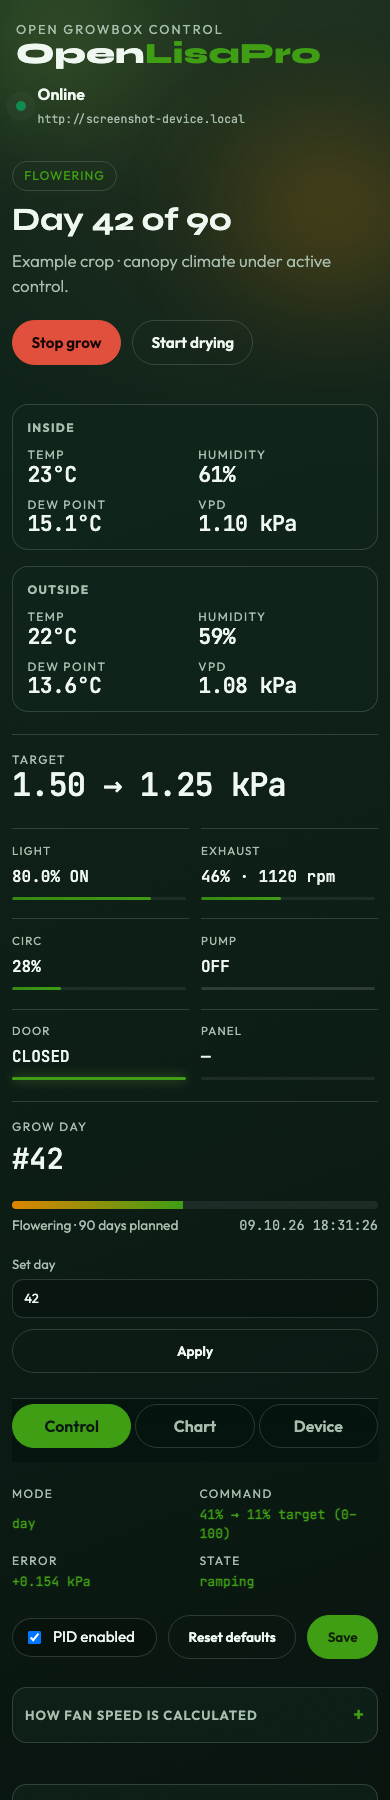
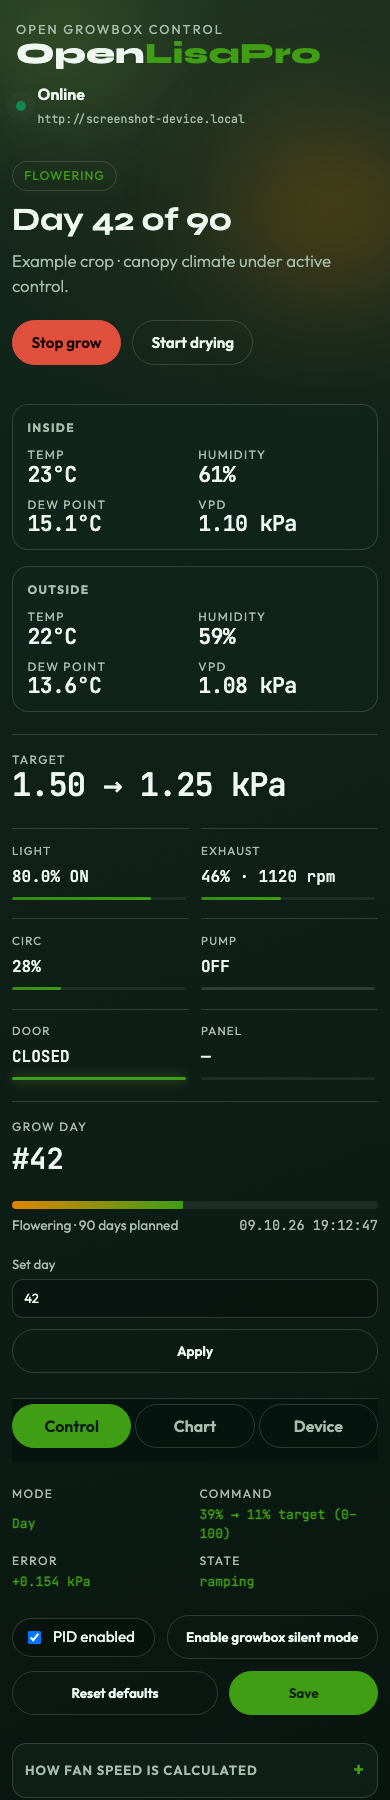
Refresh dashboard screenshots

Changed region(s): [[0.0308, 0.8711, 0.9846, 1.0], [0.9538, 0.9956, 0.9846, 1.0], [0.9231, 0.6533, 0.9538, 0.6844]]

diff --git a/README.md b/README.md
@@ -17,7 +17,7 @@ The UI can be viewed on desktop or mobile. The PID loop can write fan settings t
 
 ## Screenshots
 
-These screenshots use mock device data and show the dashboard at desktop and mobile widths. The example has a requested VPD target of 1.50 kPa; outside dew point limits the ventilation-achievable target to 1.25 kPa, so the fan command ramps down instead of chasing an unreachable target. The mock server does not connect to a growbox.
+These screenshots use mock device data and show the dashboard at desktop and mobile widths, including stage-specific Day silent/Night silent settings and the growbox silent schedule toggle. The example has a requested VPD target of 1.50 kPa; outside dew point limits the ventilation-achievable target to 1.25 kPa, so the fan command ramps down instead of chasing an unreachable target. The mock server does not connect to a growbox.
 
 ![OpenLisaPro dashboard at desktop width](docs/screenshots/dashboard-desktop.png)
 
